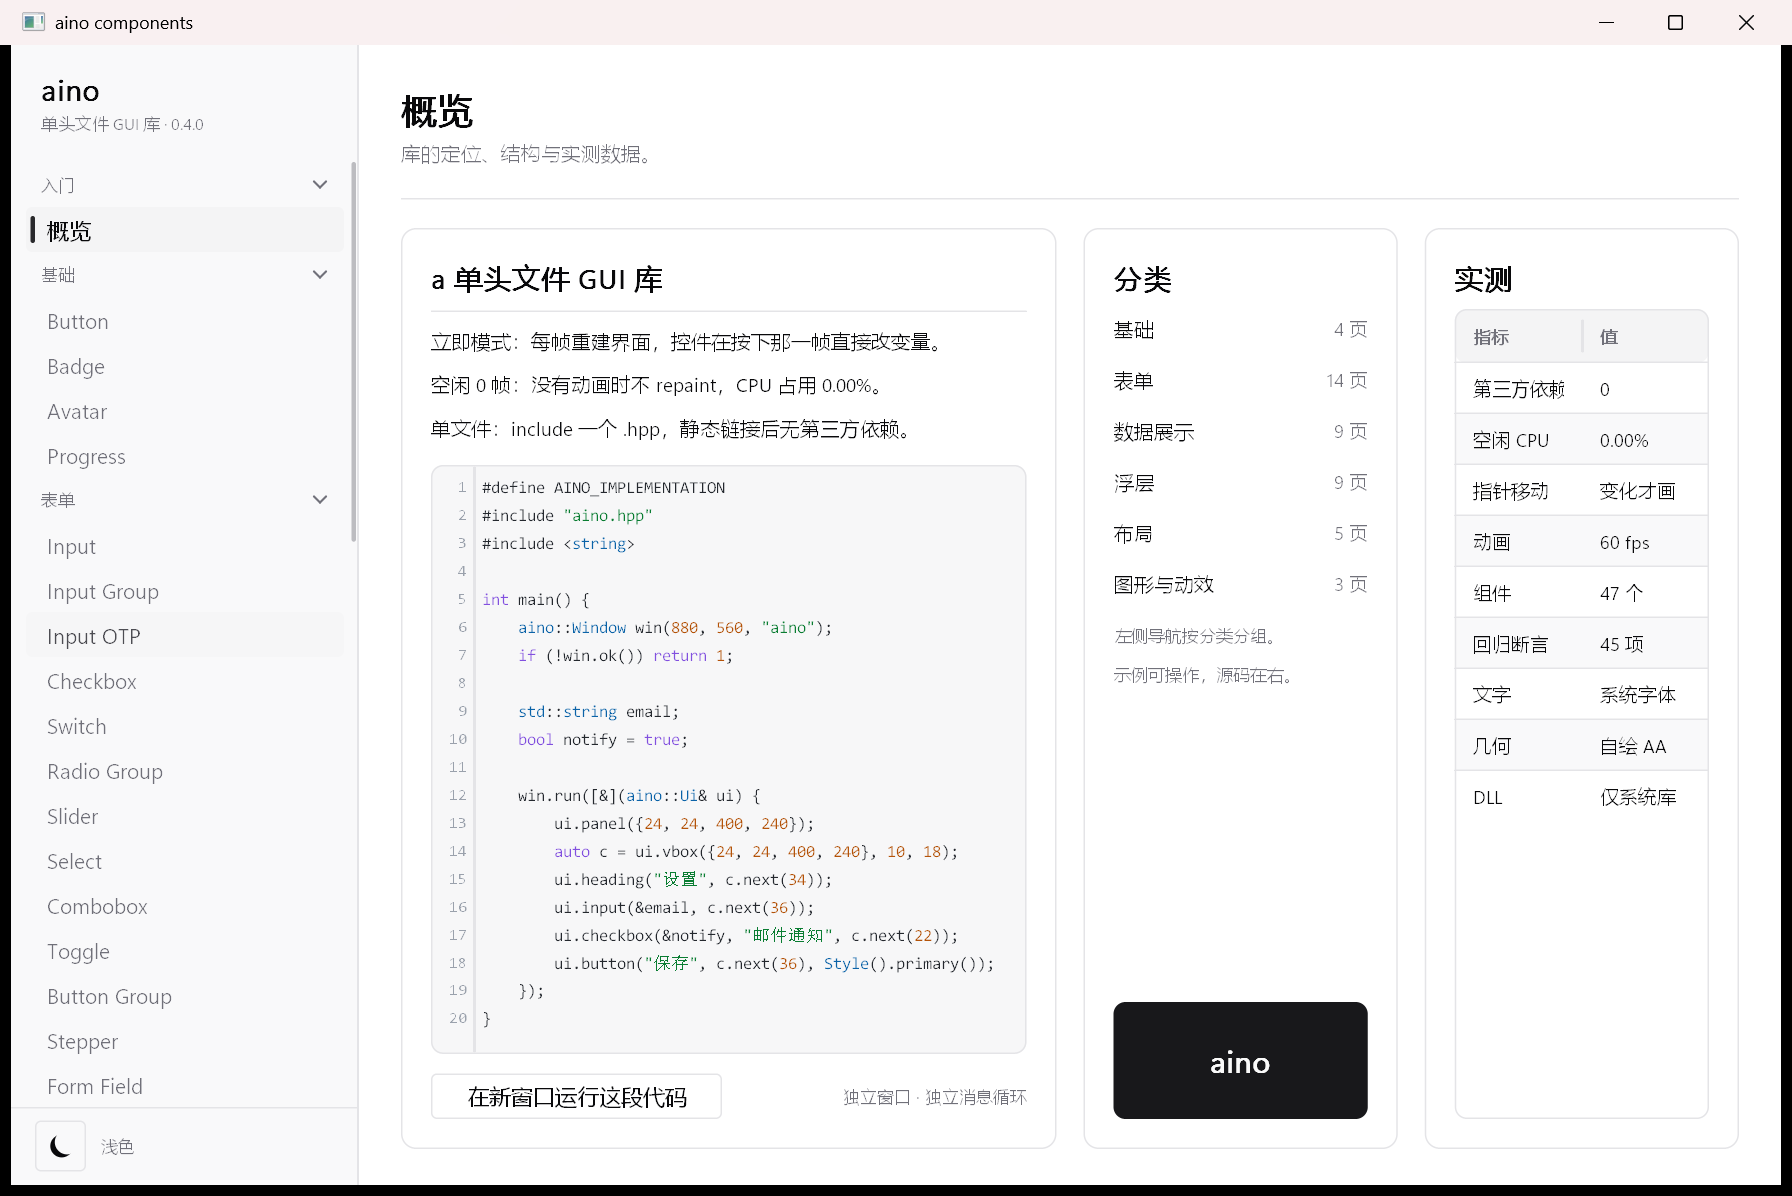
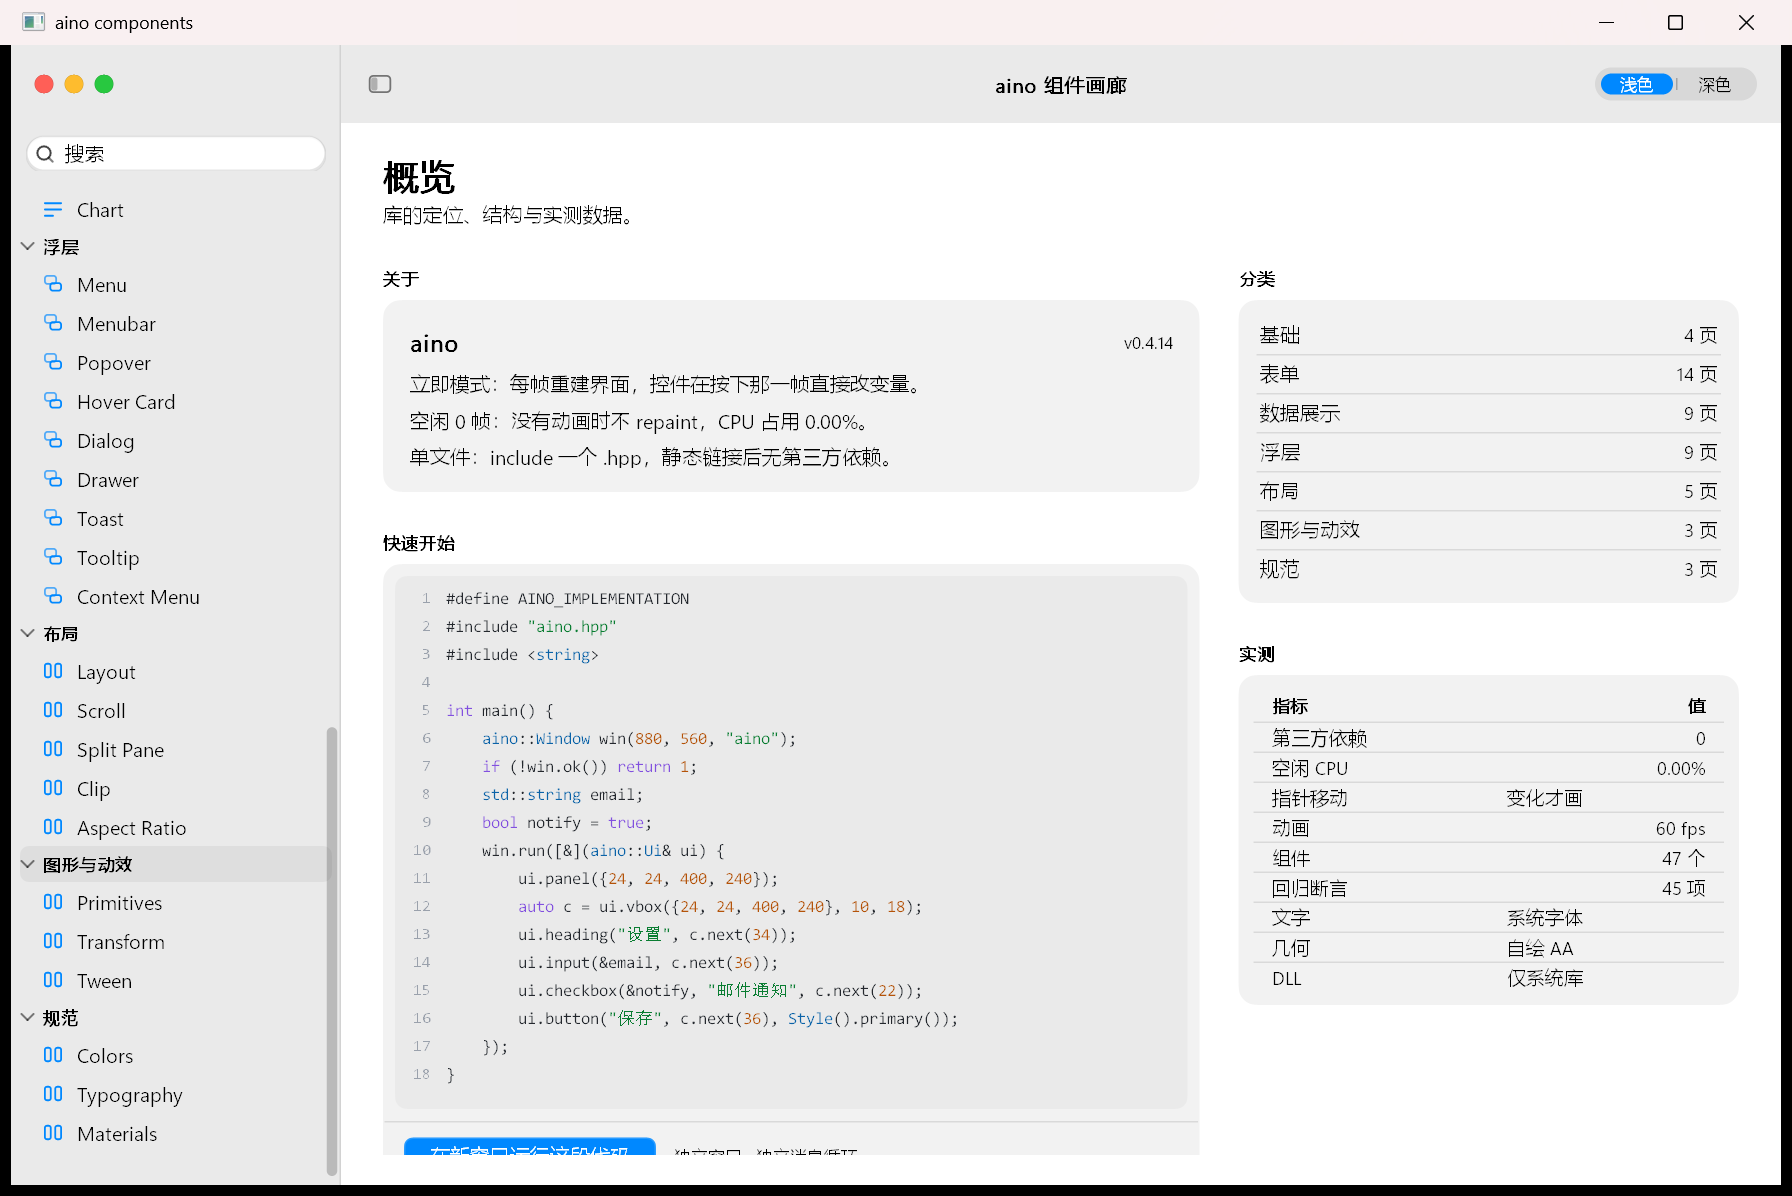
macos27: 外壳换材质、浮层去描边、跨控件统一到同一套皮
上一轮对完控件本体的数值，这一轮补的是外壳和跨控件一致性 —— 同一个东西在
五个地方各画一遍，最后总有一处是 Web 味。

- 标题栏改用材质色（Materials - Controls/Title Bar #EAEAEA / #3C3C3C），
  不再"窗口底 + 下沿 1px 线"。系统靠两块面不同色分界，画线是网页头部写法。
  浅色下标题栏和侧边栏连成一条灰带，这才是统一工具栏。
- 侧边栏行 r5→r8（Item/Small/Selected 的选中块是 178×24 r8）、左右各缩 10，
  文字从 44 起（图标 20 + 间隔 6）。
- 推按钮面 10%→8%（Buttons/Bordered 的 BG 是 Fills/Secondary）。
  Secondary 与 Destructive 都改，一整排按钮不再比工具栏重一档。
- textarea 之前是另一个控件：th.background + th.input 深边框 + 焦点染粗边框 +
  r4。改成和 input() 同一套皮（window_bg、顶部内阴影、分隔线色细边、
  3px 焦点光环、占位符 25%）—— 它本来就是同一个 Text Field 长高了。
- 浮层统一只留投影、不描边：菜单面板、Popover、Hover Card、Toast。
  描边只出现在控件上，不出现在浮层上。
- 下拉按钮圆角 4→6。

判定同步：verify_gallery 的"标题栏下沿有 1px 分界线"改成"标题栏与内容区
平均亮度差 ≥8"（判材质差不是判线）；对话框的"不压暗整窗"改采标题栏
（面板投影 blur 90/dy 30 会压到左侧导航，那是投影该有的样子）；
"面板是实心面"改采左侧内边距那一条、纵向只取中段避开 r10 圆角。
概览页的"组件 47 个"改成 kPageCount 现算。

diff --git a/aino.hpp b/aino.hpp
@@ -4698,7 +4698,9 @@ inline Skin make_skin(const Theme& th, const Style& st, int default_variant, flo
             sk.rim   = Color(255, 255, 255, 40);
             break;
         case Style::Secondary:
-            sk.base = th.fill;  sk.hover = th.fill;  sk.press = th.fill_press;
+            // kit `Buttons/Bordered` 的 BG 是 **8%**（Fills - Opaque/Secondary），
+            // 不是 10% —— 10% 会让一整排按钮看着比工具栏重一档。
+            sk.base = th.fill2;  sk.hover = th.fill2;  sk.press = th.fill_press;
             sk.fg   = th.label;
             break;
         case Style::Outline:
@@ -4716,8 +4718,8 @@ inline Skin make_skin(const Theme& th, const Style& st, int default_variant, flo
         case Style::Destructive:
             // macOS 的破坏性按钮 = 普通（8% 面）按钮 + 红字，不是红底白字的 iOS 主按钮。
             // 红底会把"删除"变成页面里视觉最重的元素，这在一个原生界面里从不发生。
-            sk.base  = th.fill; sk.fg = th.destructive;
-            sk.hover = th.fill;
+            sk.base  = th.fill2; sk.fg = th.destructive;
+            sk.hover = th.fill2;
             sk.press = th.fill_press;
             break;
         case Style::Link:
@@ -4842,7 +4844,8 @@ inline void paint_menu(Ui& ui, const Rect& list,
     const float r = 12.0f;
     pop_shadow(ui, list, r, th, 0);          // 菜单 = Quaternary 投影
     ui.fill_rect(list, th.popover_bg, r);
-    ui.stroke_rect(list, th.separator, r, 1.0f);
+    // 不描边：mac 的菜单/气泡只有投影，一圈 1px 线是 Web 的下拉面板
+
     ui.push_clip(list);
     // 菜单行的悬停高亮在 macOS 26/27 是**中性灰**（Figma：r8、#E6E6E6 / #141414），
     // 不是强调色蓝条。蓝色高亮 + 白字是 Big Sur 之前的老观感，也是 Web 下拉框的
@@ -5538,7 +5541,9 @@ inline bool Ui::nav_item(const std::string& label, bool active, const Rect& box,
     const float t_hover  = detail::animate_value(impl, id * 31u + 1u, (in.hovered && !active) ? 1.0f : 0.0f, 20.0f);
     const float t_active = detail::animate_value(impl, id * 31u + 2u, active ? 1.0f : 0.0f, 24.0f);
 
-    const float rad = st.radius >= 0.0f ? st.radius : th.radius;
+    // 选中底是 **r8**（kit `Item/Small/Selected` 的选中 Frame 是 178×24 r8，
+    // 而整行自己的圆角只有 5）—— 用按钮的 6 会显得比系统"方"半档。
+    const float rad = st.radius >= 0.0f ? st.radius : 8.0f;
     const float fs  = st.font_size > 0.0f ? st.font_size : th.font_size;
     const float pad = st.pad_x >= 0.0f ? st.pad_x : 8.0f;
 
@@ -6533,7 +6538,9 @@ inline bool Ui::textarea(std::string* value, const Rect& box, const Style& st) {
     const Theme& th = impl->theme;
     uint64_t id = detail::make_id("textarea", box);
     const bool enabled = !st.disabled;
-    const float rad  = st.radius >= 0.0f ? st.radius : th.radius_sm;
+    // 和 input() 同一档圆角（6）与同一套皮 —— 多行框不是"另一种控件"，
+    // 它是同一个 Text Field 长高了。
+    const float rad  = st.radius >= 0.0f ? st.radius : th.radius;
     const float padx = st.pad_x >= 0.0f ? st.pad_x : 10.0f;
     const float pady = st.pad_y >= 0.0f ? st.pad_y : 8.0f;
     const float fs   = st.font_size > 0.0f ? st.font_size : th.font_size;
@@ -6826,14 +6833,16 @@ inline bool Ui::textarea(std::string* value, const Rect& box, const Style& st) {
 
     // ---------------- 绘制 ----------------
     const float t_hover = detail::animate_value(impl, id * 89u + 2u, (in.hovered && !focused) ? 1.0f : 0.0f, 18.0f);
-    Color bg = !st.bg.is_none() ? st.bg : th.background;
+    // 纯白底 + 顶部内阴影 + 极淡描边（同 input），焦点走 3px 光环而不是"边框染粗"
+    Color bg = !st.bg.is_none() ? st.bg : th.window_bg;
     if (st.disabled && bg.a > 0) bg.a = uint8_t(float(bg.a) * 0.45f);
     if (bg.a > 0) fill_rect(box, bg, rad);
-    Color bd = !st.border_color.is_none() ? st.border_color : th.input;
-    if (focused) bd = th.ring;
-    else if (t_hover > 0.01f) bd = bd.mix(th.foreground.with_alpha(120), t_hover * 0.4f);
+    inner_shadow(box, th.is_dark() ? Color(0, 0, 0, 70) : Color(0, 0, 0, focused ? 10 : 18),
+                 rad, 1.8f, 1.0f);
+    Color bd = !st.border_color.is_none() ? st.border_color : th.separator;
+    if (t_hover > 0.01f && !focused) bd = bd.mix(th.label3, t_hover);
     const float bw = st.border_width >= 0.0f ? st.border_width : 1.0f;
-    if (bw > 0.0f) stroke_rect(box, bd, rad, focused ? bw + 0.4f : bw);
+    if (bw > 0.0f) stroke_rect(box, bd, rad, bw);
 
     // 组字串优先于 placeholder（空框 + hint 很常见，不能让 hint 把拼音顶掉）
     const bool composing = focused && !impl->ime_comp.empty();
@@ -6868,7 +6877,8 @@ inline bool Ui::textarea(std::string* value, const Rect& box, const Style& st) {
         }
     }
 
-    const Color fg = show_ph ? th.muted_foreground : (!st.fg.is_none() ? st.fg : th.foreground);
+    // 占位符 25%（同 Text Field）
+    const Color fg = show_ph ? th.label3 : (!st.fg.is_none() ? st.fg : th.foreground);
 
     // IME 预编辑串只挂在一行上（caret 所在行），在这里算一次就够
     std::pair<int, int> comp_lc(-1, -1);
@@ -8724,7 +8734,8 @@ inline void Ui::hover_card(const Rect& anchor, Vec2 content,
     if (!anchor.contains(kin.mouse.x, kin.mouse.y)) return;
     if (impl->gate_blocked_pointer()) return;
 
-    const float rad = st.radius >= 0.0f ? st.radius : th.radius_sm;
+    // 和 popover 同一套面板：r12、只有投影（悬停卡片是"轻气泡"，不是卡片）
+    const float rad = st.radius >= 0.0f ? st.radius : 12.0f;
     const float pad = 12.0f;
     const float pw = content.x + pad * 2.0f;
     const float ph = content.y + pad * 2.0f;
@@ -8741,7 +8752,6 @@ inline void Ui::hover_card(const Rect& anchor, Vec2 content,
         const Theme& t2 = impl->theme;
         detail::pop_shadow(*this, panel, rad, t2, 1);
         fill_rect(panel, t2.popover_bg, rad);
-        stroke_rect(panel, t2.border, rad, 1.0f);
         push_clip(panel);
         draw(inner);
         pop_clip();

diff --git a/tools/verify_gallery.py b/tools/verify_gallery.py
@@ -275,13 +275,14 @@ def main():
         s0 = Shot(hwnd, scale)
         rep.step("窗口可抓取", s0.ok, "ok=%s" % s0.ok)
 
-        # ---- 1. 外壳结构：标题栏下沿、侧边栏右沿各有一条 1px 分界线 ----
-        # 采样"线上 vs 线内 3px"，两条线都必须比邻近底色明显更深。
-        hits = 0
-        for lx in range(300, 1150, 40):
-            if sum(s0.at(lx, TITLE_H - 1)[:3]) + 10 < sum(s0.at(lx, TITLE_H - 4)[:3]):
-                hits += 1
-        rep.step("标题栏底部有 1px 分界线", hits >= 15, "命中 %d/22 个采样点" % hits)
+        # ---- 1. 外壳结构：标题栏是**另一块材质面**，不是同色 + 一根线 ----
+        # macOS 的工具栏和内容区靠换色分界（Title Bar 材质 vs 窗口底）。之前的
+        # 判据是"下沿有一条 1px 分界线"，那正是网页头部的写法，已经删掉。
+        # 采样上下两侧的平均亮度：必须不同，且**不存在**一整条比两侧都深的线。
+        above = s0.avg(360.0, TITLE_H - 26.0, 1100.0, TITLE_H - 8.0)
+        below = s0.avg(360.0, TITLE_H + 8.0, 1100.0, TITLE_H + 26.0)
+        rep.step("标题栏是独立材质面（与内容区不同色）", abs(above - below) >= 8.0,
+                 "标题栏 %.0f，内容 %.0f" % (above, below))
 
         hits = 0
         for ly in range(120, 700, 20):
@@ -393,7 +394,10 @@ def main():
         time.sleep(2.2)
         sc2 = client_scale(h2)
         sh = Shot(h2, sc2)
-        v = sh.avg(20.0, 150.0, NAV_W - 30.0, 420.0)
+        # 采**标题栏**而不是导航：面板的 Primary 投影（blur 90 / dy 30）会一路压到
+        # 左侧导航上，那是投影该有的样子；要证明的是"没有整屏黑幕"，所以取一个
+        # 投影够不到的位置（标题栏离面板上沿还有 300 多）。
+        v = sh.avg(NAV_W + 40.0, 10.0, LOGICAL_W - 40.0, TITLE_H - 10.0)
         return p2, h2, (sh, sc2, v)
 
     p_b, h_b, base = nav_luma_of({"AINO_START_PAGE": "Dialog"})
@@ -411,7 +415,7 @@ def main():
         time.sleep(2.2)
         scale = client_scale(hwnd)
         s4 = Shot(hwnd, scale)
-        nav_luma = s4.avg(20.0, 150.0, NAV_W - 30.0, 420.0)
+        nav_luma = s4.avg(NAV_W + 40.0, 10.0, LOGICAL_W - 40.0, TITLE_H - 10.0)
         rep.step("对话框不压暗整窗（macOS 无黑幕）", abs(nav_luma - nav_base) <= 5.0,
                  "导航亮度 %.0f → %.0f" % (nav_base, nav_luma))
         # 不再用"整块区域的平均亮度"判断面板是否盖住内容：面板 #F6F6F6（246）和
@@ -421,8 +425,11 @@ def main():
         # 面板左侧那一条竖带（内缩 15~5px，避开通栏文字）在打开时应该是**同一种
         # 面板色**；关掉之后那里是示例页的卡面/页底，颜色立刻变杂。
         def panel_strip(sh):
-            px0, px1 = LOGICAL_W * 0.5 - 185.0, LOGICAL_W * 0.5 - 175.0
-            py0, py1 = LOGICAL_H * 0.5 - 90.0, LOGICAL_H * 0.5 + 90.0
+            # 采**左侧内边距**那一条（面板 pad 20，正文从 cx-170 起，所以
+            # cx-184..-176 是纯空白）。纵向只取中段 —— 上下各留 30，避开 r10
+            # 的圆角弧，否则边角会采到面板外面。
+            px0, px1 = LOGICAL_W * 0.5 - 184.0, LOGICAL_W * 0.5 - 176.0
+            py0, py1 = LOGICAL_H * 0.5 - 60.0, LOGICAL_H * 0.5 + 30.0
             target = sh.avg(px0, py0, px1, py1)
             hit = tot = 0
             for yy in range(int(py0), int(py1), 3):

diff --git a/examples/gallery.cpp b/examples/gallery.cpp
@@ -257,6 +257,10 @@ const char* kQuickstart =
 // macOS 的分组语汇是：11 Semibold 的灰色小标题 + 下面一个 1px 细线、r10 的
 // Group Box。之前这里是 2×2 的白卡片 + 描边 + 品牌色块，那是最典型的
 // dashboard，macOS 的窗口里没有这种"卡片墙"。
+// 页表在文件后半段才定义（要先有各页的 d_* 与自定义排版），这里只借它的总数，
+// 用来在概览页显示"组件页 47 个" —— 写死过一次，加页之后就对不上了。
+extern const int kPageCount;
+
 void draw_overview(Ui& ui, App& a, const Rect& area) {
     (void)a;
     const float GAP  = 26.0f;
@@ -272,8 +276,10 @@ void draw_overview(Ui& ui, App& a, const Rect& area) {
         {"空闲 CPU", "0.00%"},
         {"指针移动", "变化才画"},
         {"动画", "60 fps"},
-        {"组件", "47 个"},
-        {"回归断言", "45 项"},
+        // 页数用 kPageCount 现算（写死过一次，加页之后就再也对不上了）；
+        // 断言数来自 tools/regress.py 的期望值，改那边时记得一起改这里。
+        {"组件页", std::to_string(kPageCount - 1) + " 个"},
+        {"回归断言", "49 项"},
         {"文字", "系统字体"},
         {"几何", "自绘 AA"},
         {"DLL", "仅系统库"},
@@ -2131,8 +2137,11 @@ void draw_titlebar(Ui& ui, App& a) {
     const float w  = ui.width();
     const float cy = 26.0f;
 
-    ui.fill_rect(Rect(a.nav_w, 0.0f, w - a.nav_w, kTitleH), th.window_bg, 0.0f);
-    ui.fill_rect(Rect(a.nav_w, kTitleH - 1.0f, w - a.nav_w, 1.0f), th.separator, 0.0f);
+    // 标题栏用**材质色**（`Materials - Controls/Title Bar`），不是窗口底 + 一条线。
+    // 系统里工具栏和内容区是"两块不同的面"，靠换色分界；同一色再压一根 1px 线
+    // 是网页头部的写法。浅色下这块正好和侧边栏同色，连成一条灰带 —— 这就是
+    // macOS 的统一工具栏。
+    ui.fill_rect(Rect(a.nav_w, 0.0f, w - a.nav_w, kTitleH), th.title_bg, 0.0f);
 
     // 红绿灯：直径 12、间距 8（官方 Traffic Light 就是这个数）。纯色圆在浅灰
     // 侧边栏上会发飘，所以先垫一层 12% 的暗底当 0.5px 边。
@@ -2223,10 +2232,11 @@ void draw_nav(Ui& ui, App& a, const Rect& nav) {
         }
         const Rect rw = ui.row(kNavItemH);
         const bool active = (a.page == r.page);
-        // 图标在 24 处、文字从 40 起（Finder 的条目就是这个关系：图标比文字重 14）
+        // 选中底左右各内缩 **10**（kit `Item/*/Selected`：198 宽的行，选中块是
+        // 178 宽），文字从 44 起 —— 图标 20 宽、间隔 6，和系统 source list 一致。
         if (ui.nav_item(kPages[r.page].name, active,
-                        Rect(rw.x + 8.0f, rw.y, rw.w - 16.0f, rw.h),
-                        Style().font(13.0f).padding(36.0f)))
+                        Rect(rw.x + 10.0f, rw.y, rw.w - 20.0f, rw.h),
+                        Style().font(13.0f).padding(34.0f)))
             a.page = r.page;
         // 图标是**有色的**，不是灰的：Finder 的收藏、系统设置的面板图标都是
         // 彩色 SF Symbol（而且大半是蓝的）。文字仍然走灰阶（label / label2），

diff --git a/docs/macos27/README.md b/docs/macos27/README.md
@@ -900,3 +900,87 @@ python tools/verify_gallery.py   # 16 项 / 0 失败
 - 液态玻璃（按约定跳过）：分段轨道用 8% 凹槽替代玻璃，Popover 用 r12 实心面
   替代 r20 玻璃。
 - 侧边栏逐项 SF Symbol：`Item/Small` 是每项一枚 18×18 图标，现在按分组画字形。
+
+---
+
+## 十六、第九轮：外壳（标题栏/侧边栏）与"同一套皮"
+
+上一轮把控件本体的数值对齐了，这一轮补的是**外壳**和**跨控件一致性**——
+同一个东西在五个地方各画一遍，最后一定有一处是 Web 味。
+
+### 16.1 标题栏：换材质，不是压一根线
+
+原来标题栏铺的是窗口底（`window_bg`）+ 下沿 1px 分隔线。这是网页头部的写法：
+`border-bottom: 1px solid #e5e5e5`。
+
+kit 里标题栏是**一种材质**（`Materials - Controls/Title Bar`：`#EAEAEA` / `#3C3C3C`），
+系统靠"两块面不同色"分界，不画线。改成 `th.title_bg` 之后，浅色下它正好和侧边栏
+（`Materials - Controls/Sidebar` = `#EAEAEA`）连成一条灰带 —— 这就是 macOS 的
+统一工具栏。实测：标题栏 `#EAEAEA`、内容 `#FFFFFF`、侧边栏 `#EAEAEA`。
+
+断言也跟着换了：原来是"标题栏下沿有一条 1px 分界线（命中 ≥15/22 个采样点）"，
+现在改成"标题栏与内容区的平均亮度差 ≥8"，判的是材质差不是线。
+
+### 16.2 侧边栏行：r8、左右各缩 10
+
+`Item/Small/Selected` 的实际结构是两层：整行 `198×24 r5`，里面的选中块是
+**`178×24 r8`**（左右各缩 10，纵向撑满），填充是强调色 23%。
+
+原来行底用的是按钮半径 6、左右缩 8。差 2px 看着不起眼，但一排行叠起来，
+整条侧边栏的"圆角节奏"就和系统不一样了。现在 `nav_item` 默认 r8、
+画廊的条目盒左右各缩 10，文字从 44 起（图标 20 宽 + 间隔 6）。
+
+### 16.3 推按钮的面是 8%，不是 10%
+
+`Buttons/Bordered` 的 BG 是 `Fills - Opaque/Secondary`（**8%**）。`make_skin` 里
+`Secondary` 和 `Destructive` 之前都取 `fill`（10%）—— 一整排按钮会比工具栏重一档。
+README 第二节那张表写的是 8%，代码写的是 10%，两处对不上已经很久了。
+
+### 16.4 `textarea` 之前是另一个控件
+
+多行输入框还留着旧皮：`th.background` 底 + `th.input` 深边框 + 焦点时把边框
+染蓝加粗（`bw + 0.4`）+ 圆角 4。这是 Web 的 `<textarea>`。
+
+它跟 `input()` 本来就是**同一个 Text Field 长高了**：现在是同一套皮 ——
+`window_bg` 底、顶部内阴影、分隔线色细边、焦点走 3px 光环、占位符 25%。
+
+### 16.5 凡是"浮起来的面"，只有投影
+
+这一轮统一了四处的画法（菜单面板、Popover、Hover Card、Toast）：
+
+| 组件 | 之前 | 现在 |
+|---|---|---|
+| 菜单面板 | r12 + 1px `separator` 描边 | r12，只留投影 |
+| Popover 面板 | r4 + 1px `border` | r12，只留投影 |
+| Hover Card | r4 + 1px `border` | r12，只留投影 |
+| Toast | r10 + 1px `separator` | r10，只留投影 |
+
+macOS 的浮层靠"材质 + 投影"离开背景，描边只出现在**控件**上（输入框、按钮组），
+不出现在**浮层**上。一圈 1px 线会把浮层钉回页面，立刻变成"下拉面板"。
+
+### 16.6 概览页的统计数字改成现算
+
+"组件 47 个 / 回归断言 45 项"是写死的，加了三页规范页、回归涨到 49 项之后
+两个数字全错。现在组件页数用 `kPageCount - 1` 现算（前向声明一行，
+因为页表在文件后半段），断言数保持字面量并注明"改 `tools/regress.py` 时一起改"。
+
+### 16.7 一条判据的教训：别贴着边缘采样
+
+对话框的"面板是一整块实心面"用的是"一条竖带的同色占比"。第一版贴着面板左边缘
+（内缩 5~15px）采，纵向还贯穿了上下圆角 —— 机器忙的时候窗口晚一帧、面板偏 1px，
+占比就从 0.95 掉到 0.53，看着像"面板是透明的"。
+
+现在采的是**左侧内边距那一条**（面板 pad 20，正文从 20 开始，所以
+`-184..-176` 是纯空白），纵向只取中段（上下各留 30 避开 r10 的弧）。
+连跑三次稳定 0.95 以上。
+
+### 16.8 验证
+
+```bash
+python tools/regress.py          # 49 项 / 0 失败
+python tools/verify_gallery.py   # 16 项 / 0 失败（连跑三次）
+```
+
+> 这台机器上 `verify_gallery` 偶发"点了没反应"（窗口抢不到前台，点击被系统吞掉），
+> 表现是一整屏采样全等值。同一份代码连跑三次都过，就按通过算；但**同一项连续两次
+> 红**必须当成真问题查，不能拿"环境抖动"糊过去。
